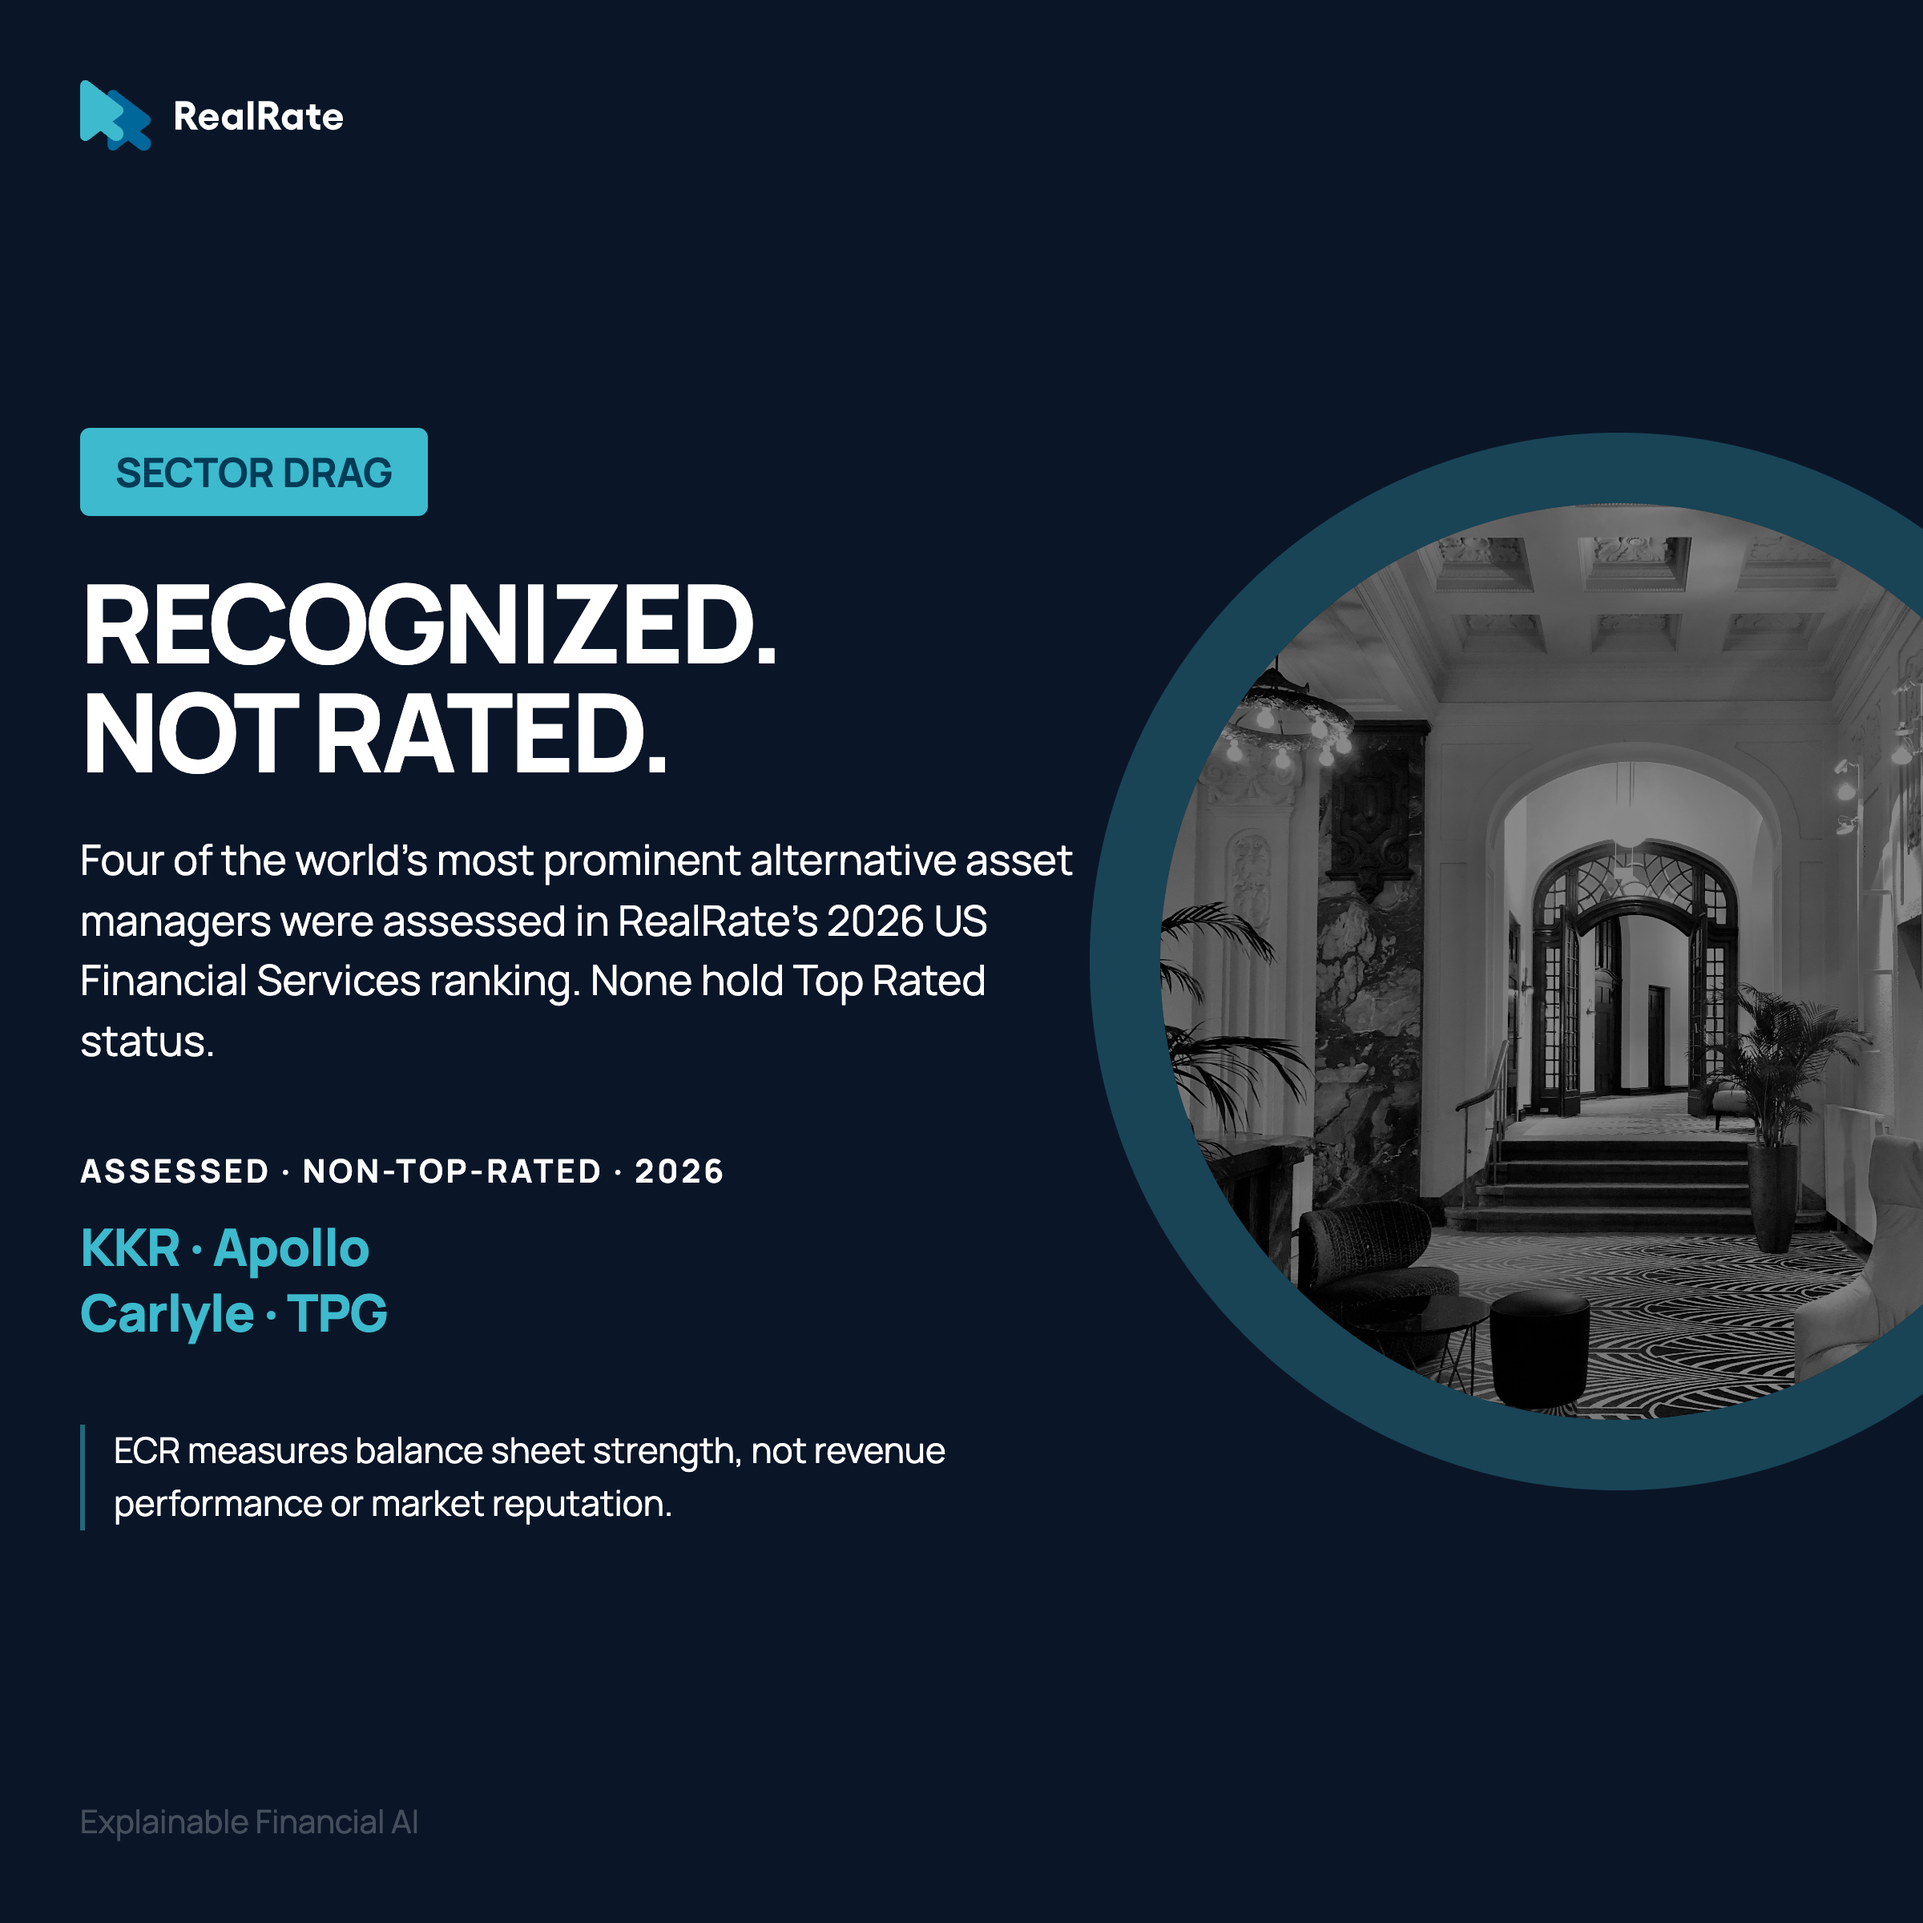
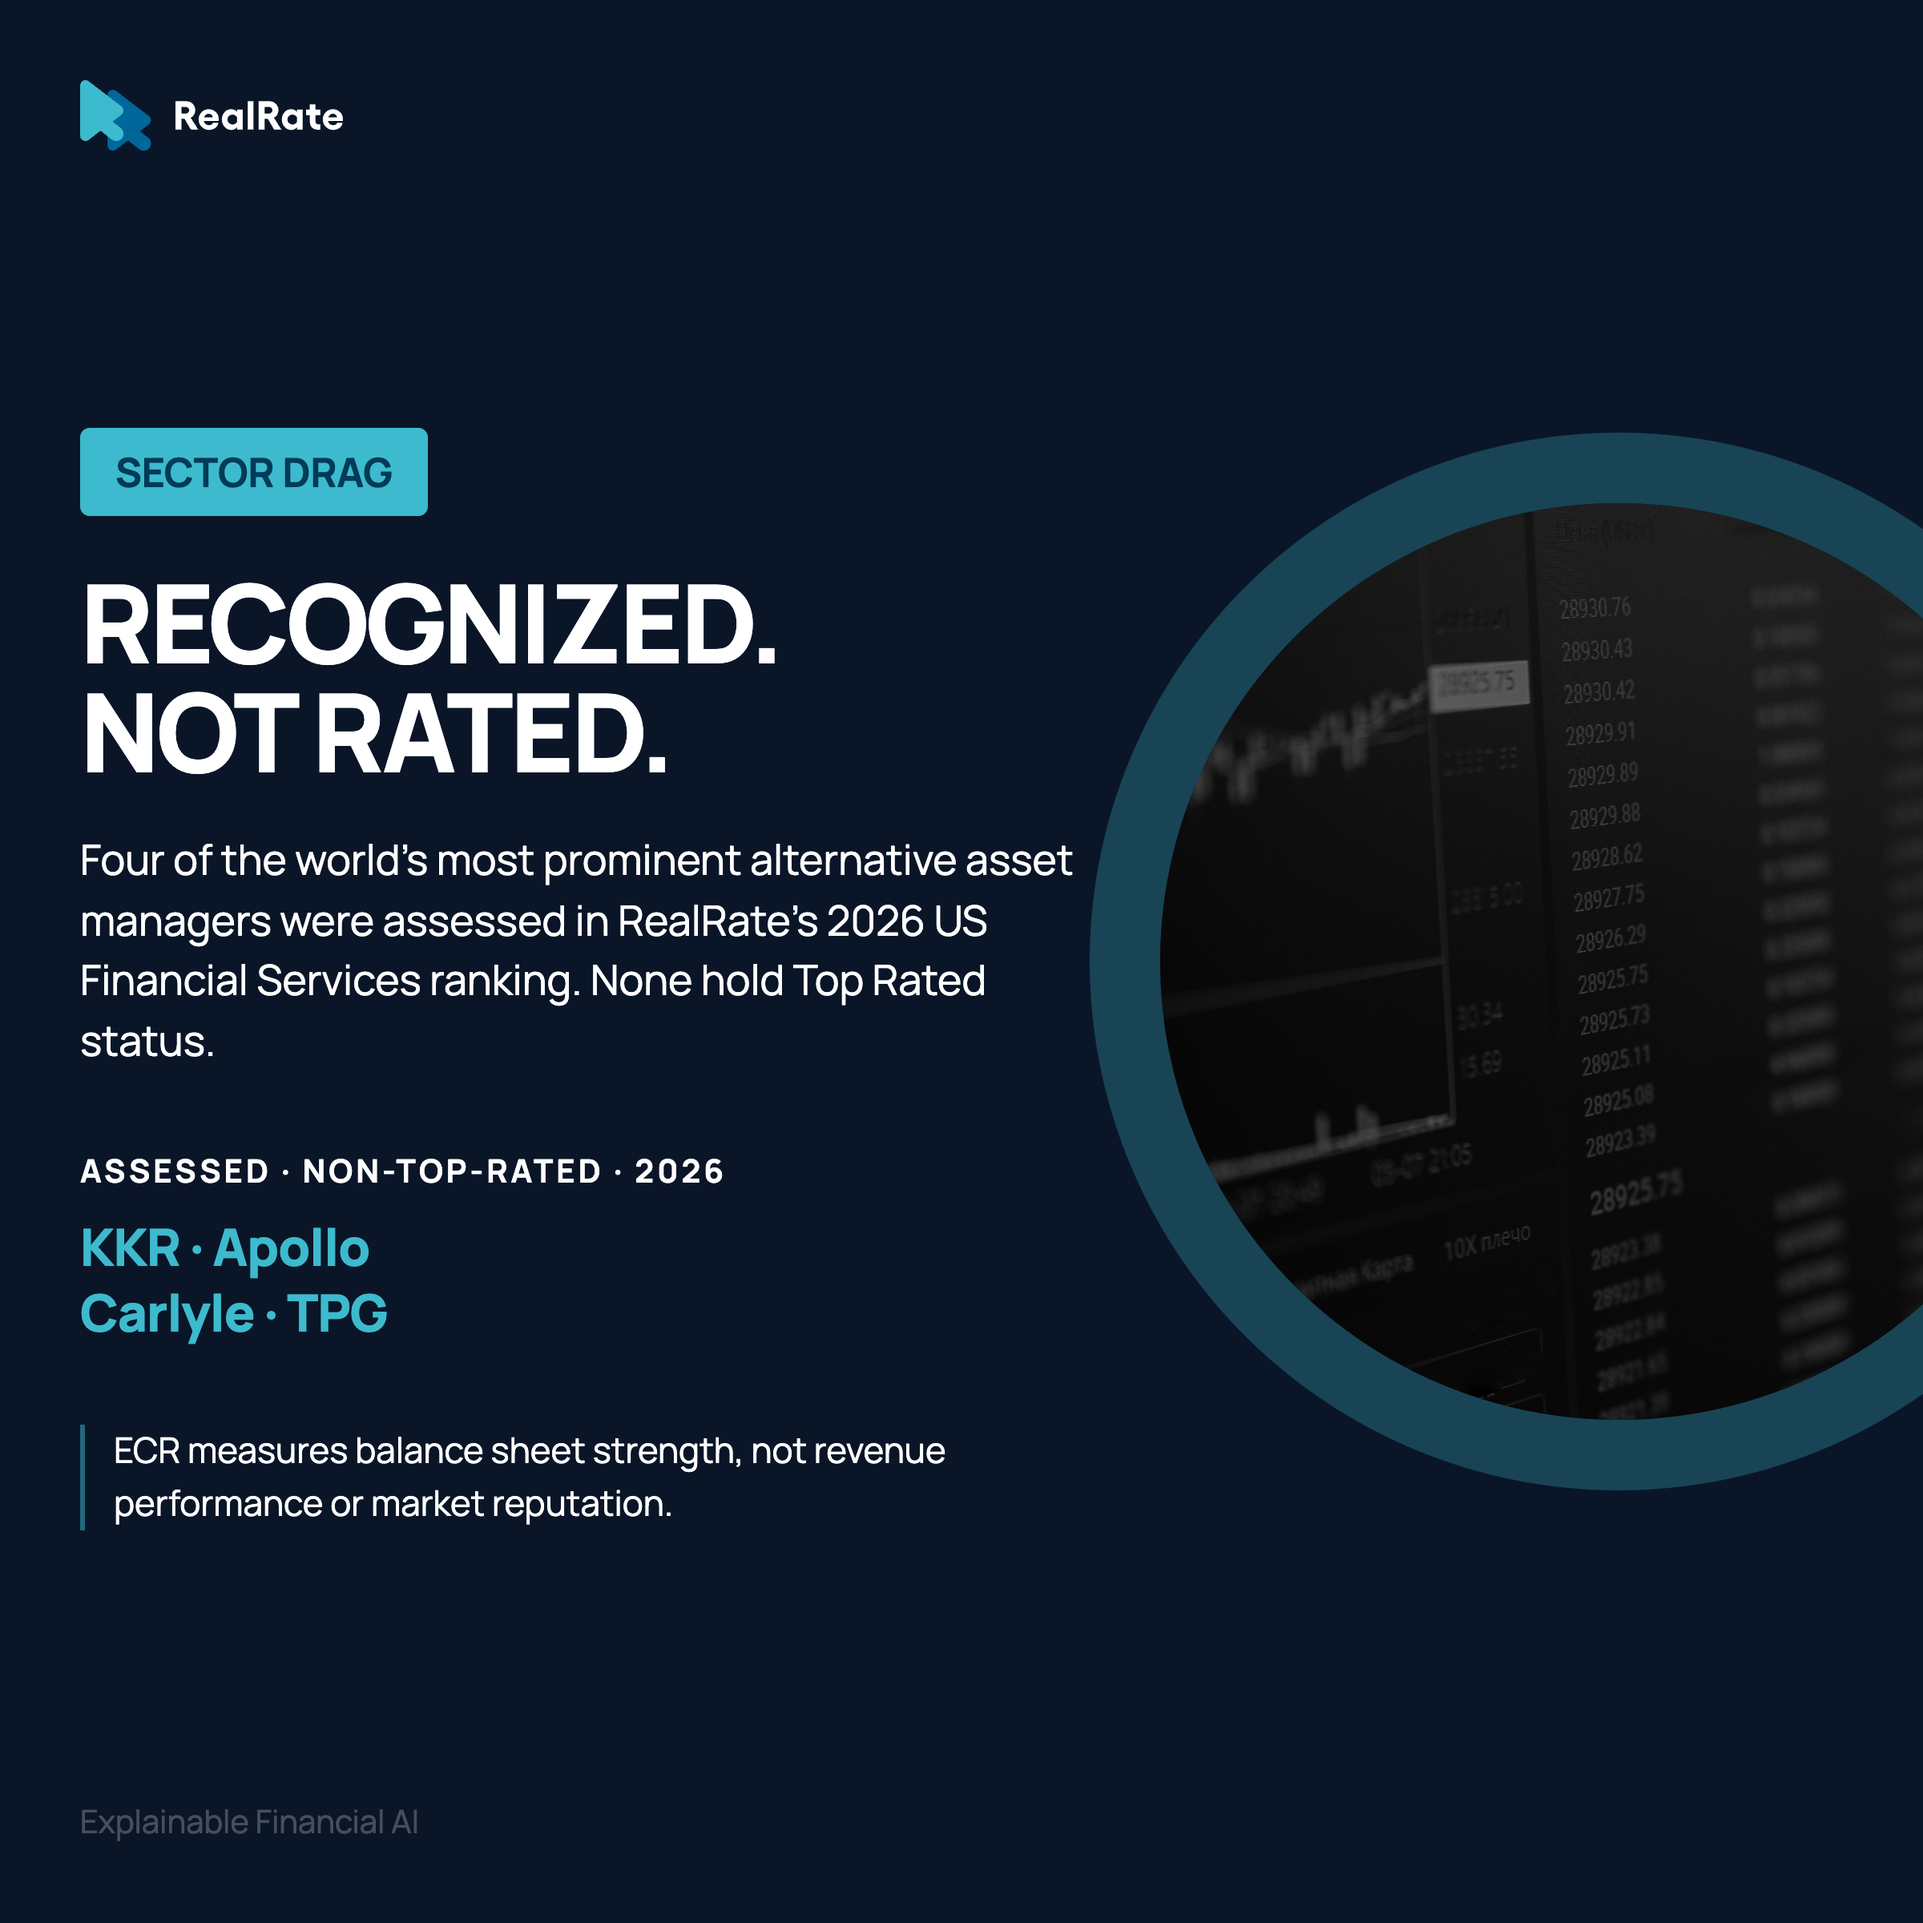
Update Insight 4 — swap to trading screen stock image

Changed region(s): [[0.5938, 0.25, 1.0, 0.75]]

diff --git a/posts/insight4_sector-drag_us-finance-services.html b/posts/insight4_sector-drag_us-finance-services.html
@@ -134,7 +134,7 @@
 
   <!-- L5 ring photo — right side -->
   <div class="photo-ring">
-    <img src="../Stock Images/jennifer-latuperisa-andresen-Cj7a21nHLyo-unsplash.jpg" alt="" />
+    <img src="../Stock Images/pexels-sash2s-16902140.jpg" alt="" />
   </div>
 
   <div class="container">
